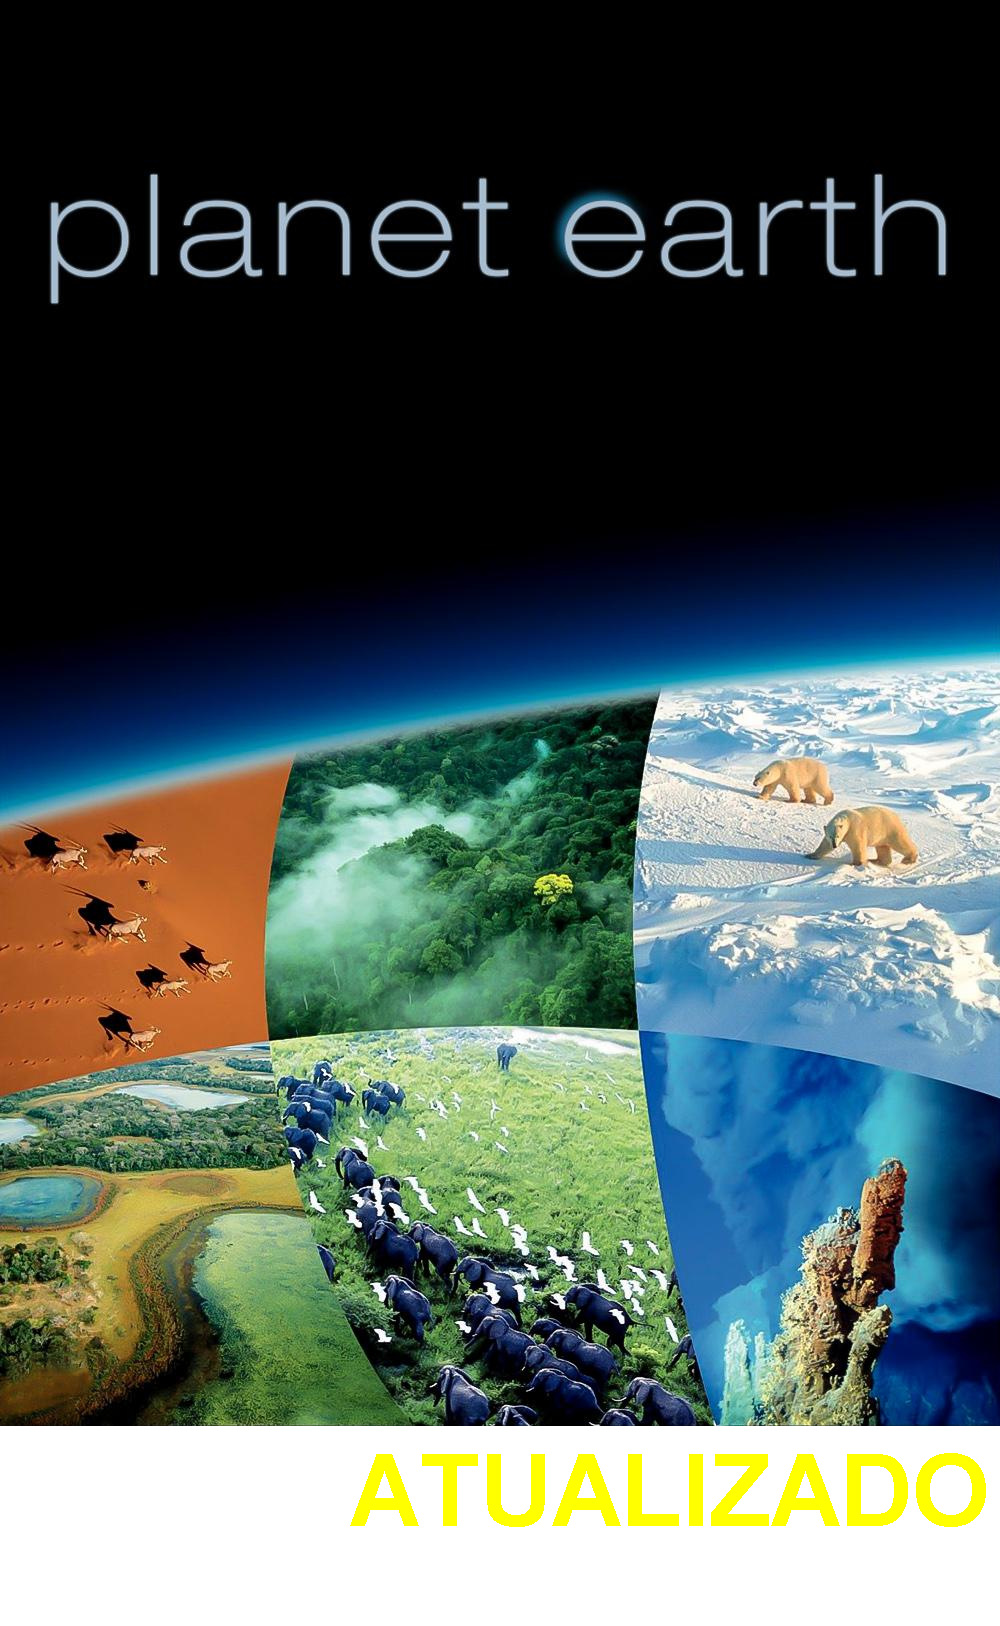
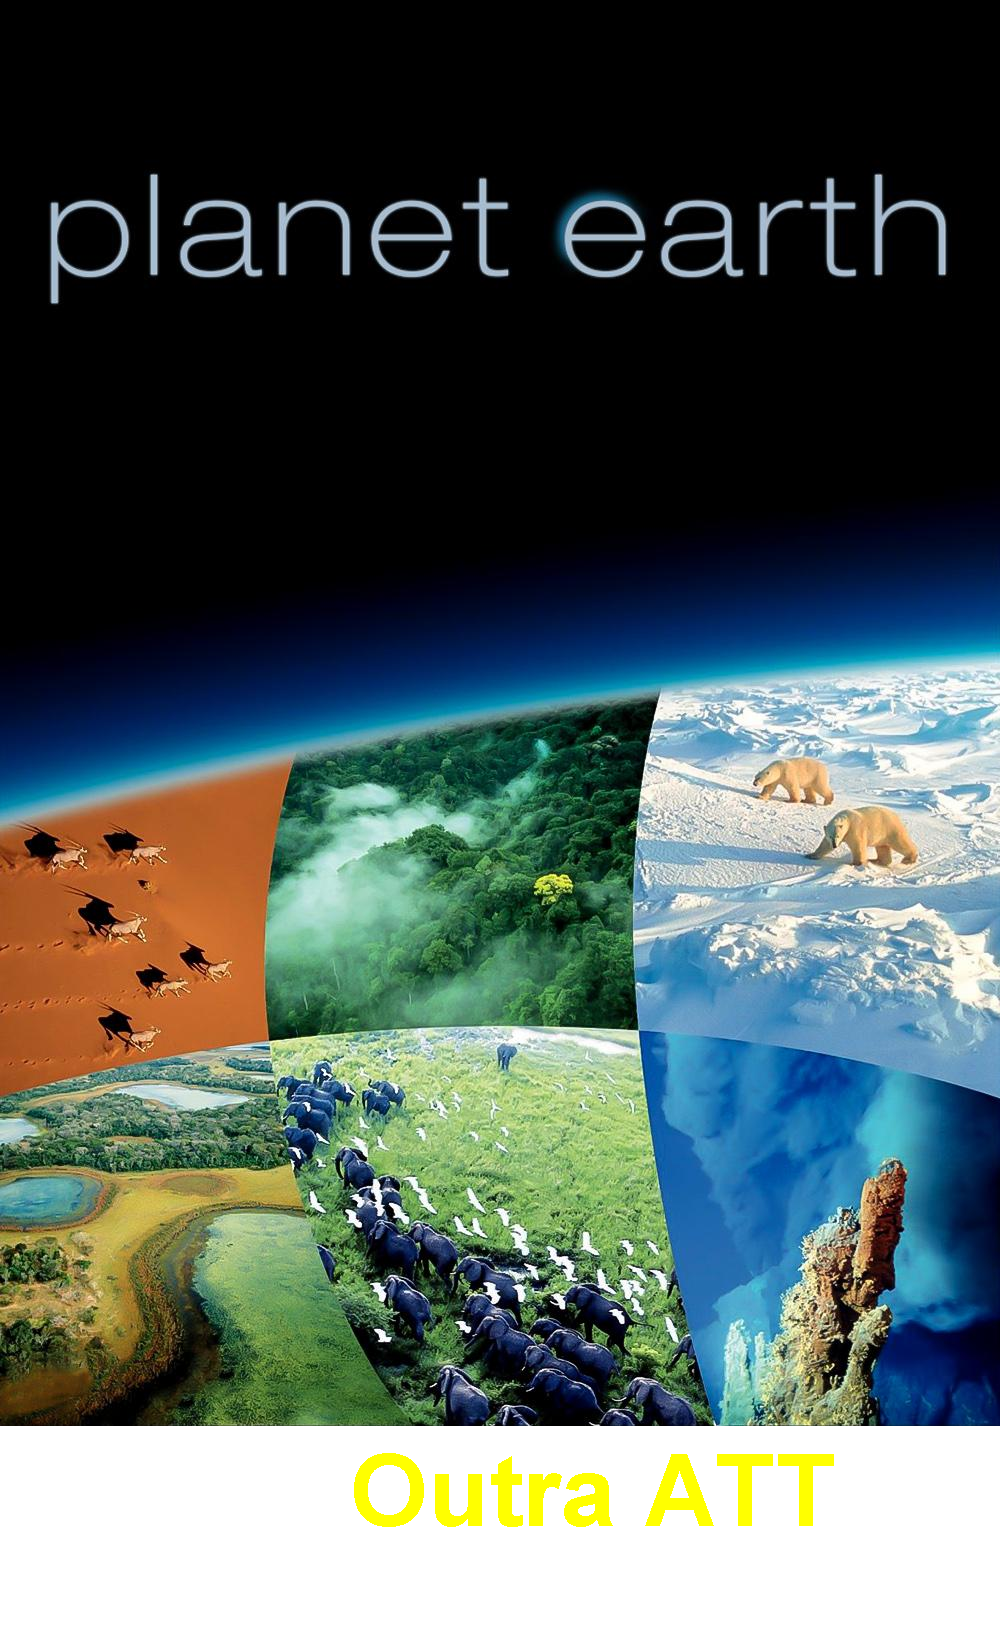
terminando de separar por classes

Changed region(s): [[0.341, 0.8918, 0.992, 0.9533]]

diff --git a/src/App.java b/src/App.java
@@ -6,35 +6,58 @@ public class App {
     public static void main(String[] args) throws Exception {
         System.out.println("Pegando Informações da API:");
 
-        // Fazer uma conexão http e os buscar os top 250 filmes
+        // OBJETO Buscador
         BuscadorAPI buscadorAPI = new BuscadorAPI();
-
+        // METODO Buscar
         String dadosAPI = buscadorAPI.buscarDadosApi();
 
-        // Escolhendo metodo de Vizualização de Imagem
+        // MENU escolha de modo de imagem
         Scanner cc = new Scanner(System.in);
 
+        // Opções de modo de imagem
         System.out.println("Como você deseja vizualizar as imagens dos filmes/series?");
         System.out.println("1- ASCII | 2- JFRAME | 3- Figurinhas");
-
         int opcaoVizualicao = cc.nextInt();
-
         cc.close();
 
-        // extrair so os dados que interessam (titulo, poster, nota)
+        // OBJETO Filtador  
         FiltradorLista filtradorLista = new FiltradorLista();
-
+        // METODO Buscar
         List<Map<String, String>> listaFiltrada =  filtradorLista.filtrarLista(dadosAPI);
 
-        // exibir os dados
+        // LOOP Mostrar Infos Padrões
         for (Map<String,String> filme : listaFiltrada) {
             System.out.println("\u001b[1mTitulo:\u001b[m " + filme.get("title"));
             System.out.println("\u001b[1mImagem:\u001b[m " + filme.get("image"));
             System.out.println("\u001b[1mNota:\u001b[m " + filme.get("imDbRating"));
             
-            // Passando valor da nota de String para Int
+            // METODO Imprirmir Estrelas
             double notaEmDouble = Double.parseDouble(filme.get("imDbRating"));
-            int notaEmInt = (int) notaEmDouble;
+            imprimirEstrelas(notaEmDouble);
+            
+            // OPÇÕES de Vizualização
+            if(opcaoVizualicao == 1){
+                //OBJETO e METODO de ASCII
+                ConversorASCII conversorASCII = new ConversorASCII();
+                System.out.println(conversorASCII.imageParaAscii(filme.get("image")));
+            } else if (opcaoVizualicao == 2){
+                //OBJETO e Metodo de JFrame
+                String urlImagem = filme.get("image");
+                CriadorJFrame criadorJFrame = new CriadorJFrame();
+                criadorJFrame.criarJframe(urlImagem);
+            } else if (opcaoVizualicao == 3){
+                //OBJETO e METODO de Stickers
+                GeradorStickers geradorStickers = new GeradorStickers();
+                geradorStickers.criar(filme.get("image"), filme.get("title"), "Outra ATT");
+            } else{
+                throw new RuntimeException("Opção Inexistente");
+            }
+            }
+        }
+
+    private static void imprimirEstrelas(double notaEmDouble) {
+
+        int notaEmInt = (int) notaEmDouble;
 
             // Printando Estrelinha
             for (int j = 1; j <= notaEmInt; j++){
@@ -42,26 +65,7 @@ public class App {
             }
             //Pulando Linha
             System.out.println("\n");
-            
-            //------------------------------------------------------
-            // Forma de Vizualiar imagem referente a escolha
-            switch(opcaoVizualicao){
-                case 1: 
-                    ConversorASCII conversorASCII = new ConversorASCII();
-                    System.out.println(conversorASCII.imageParaAscii(filme.get("image")));
-                case 2:
-                    // Opcao de JFRAME
-                    String urlImagem = filme.get("image");
-                    CriadorJFrame criadorJFrame = new CriadorJFrame();
-                    criadorJFrame.criarJframe(urlImagem);
 
-                case 3:
-                    GeradorStickers geradorStickers = new GeradorStickers();
-                    geradorStickers.criar(filme.get("image"), filme.get("title"), "ATUALIZADO");
-                default:
-                    throw new RuntimeException("Opção Inexistente");
-            }
-        }
     }
     
 }
